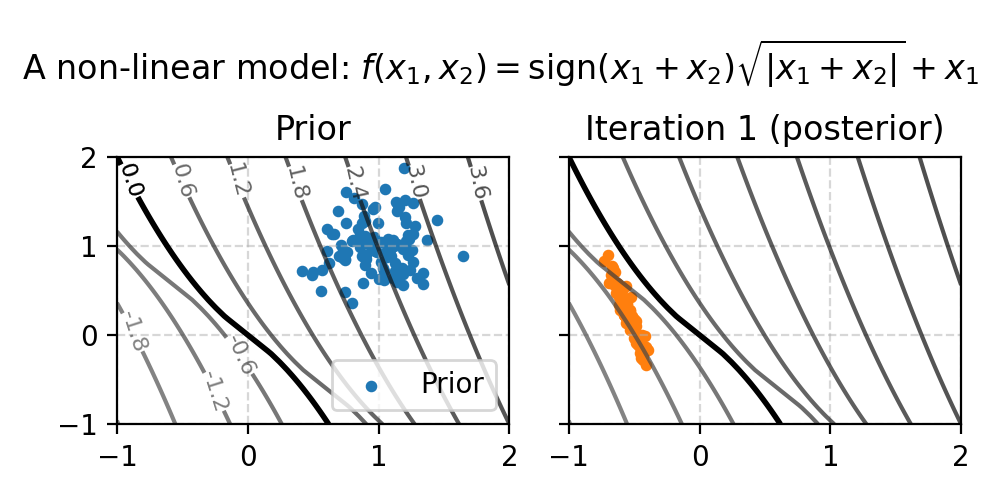
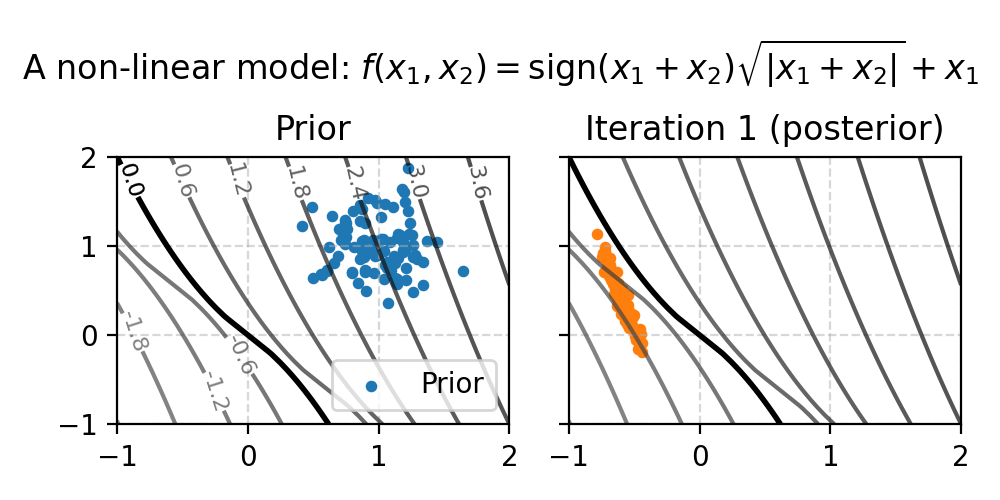
checkpoint

Changed region(s): [[0.279, 0.33, 0.465, 0.63], [0.589, 0.45, 0.651, 0.6], [0.62, 0.63, 0.651, 0.75]]

diff --git a/docs/assumptions_limitations.py b/docs/assumptions_limitations.py
@@ -2,9 +2,9 @@ import numpy as np
 import scipy as sp
 from iterative_ensemble_smoother import ESMDA
 import matplotlib.pyplot as plt
-prop_cycle = plt.rcParams['axes.prop_cycle']
-COLORS = prop_cycle.by_key()['color']
 
+prop_cycle = plt.rcParams["axes.prop_cycle"]
+COLORS = prop_cycle.by_key()["color"]
 
 
 rng = np.random.default_rng(42)
@@ -16,28 +16,28 @@ for experiment in range(5):
     B = rng.uniform(size=n)
     E_AB = np.mean(A * B)
     print(f"  E[A * B] = {E_AB:.3f}")
-    
-    
+
+
 plt.figure(figsize=(5, 3.0))
 plt.title(r"Error decreases like $1/\sqrt{n}$")
 for samples in range(1, 51):
     obs = np.mean(np.prod(rng.uniform(size=(2, samples, 10)), axis=0), axis=0)
     x = samples + rng.uniform(-0.5, 0.25, size=len(obs))
     plt.scatter(x, obs, color="black", s=5, alpha=0.8)
-    
-    
-x = np.linspace(1, 51, num=2**10)
-sigma = np.sqrt(7 / 144) # Var[A*B] = E[A] * E[B] - E[A*B]
 
-plt.plot(x, 0.25 + sigma/ np.sqrt(x), color=COLORS[0], lw=2, alpha=0.8)
-plt.plot(x, 0.25 - sigma/ np.sqrt(x), color=COLORS[0], lw=2, alpha=0.8)
+
+x = np.linspace(1, 51, num=2**10)
+sigma = np.sqrt(7 / 144)  # Var[A*B] = E[A] * E[B] - E[A*B]
+
+plt.plot(x, 0.25 + sigma / np.sqrt(x), color=COLORS[0], lw=2, alpha=0.8)
+plt.plot(x, 0.25 - sigma / np.sqrt(x), color=COLORS[0], lw=2, alpha=0.8)
 
 plt.xlabel("Number of samples $n$")
 plt.ylabel("E[AB] : Expected value\nof product of uniforms")
 plt.grid(True, ls="--", alpha=0.4)
 plt.tight_layout()
 plt.savefig("sample_estimation_sqrt.png", dpi=200)
-    
+
 plt.show()
 
 
@@ -95,7 +95,6 @@ fig.tight_layout()
 plt.savefig("identical_marginals.png", dpi=200)
 plt.show()
 
-1/0
 # =================================================
 
 
@@ -210,7 +209,7 @@ def plot_esmda(forward_model, iterations=2, seed=42, title=None, covar_scale=0.0
         fig.suptitle(title, y=0.925)
 
     # Set up ESMDA
-    realizations = 100
+    realizations = 99
     X = 1 + 0.3 * rng.normal(size=(2, realizations))
     observations = np.zeros(1)
     covariance = np.diag([1]) * covar_scale
@@ -221,9 +220,9 @@ def plot_esmda(forward_model, iterations=2, seed=42, title=None, covar_scale=0.0
     # Generate text labels dynamically
     texts = ["Prior"] + [f"Iteration {i + 1}" for i in range(iterations)]
     texts[-1] += " (posterior)"
-    
+
     # Blue for first, orange for last
-    colors = COLORS[:1] + COLORS[2:] 
+    colors = COLORS[:1] + COLORS[2:]
     colors[iterations] = COLORS[1]
 
     for i in range(esmda.num_assimilations() + 1):
@@ -261,26 +260,45 @@ def plot_esmda(forward_model, iterations=2, seed=42, title=None, covar_scale=0.0
 def forward_model(x):
     return np.abs(np.sum(x, keepdims=True)) ** 2 + x[0] * 5
 
-fig, axes = plot_esmda(forward_model, iterations=2, seed=42, 
-                       title="A non-linear model: $f(x_1, x_2) = (x_1 + x_2)^2 + 5 x_1$")
+
+fig, axes = plot_esmda(
+    forward_model,
+    iterations=2,
+    seed=42,
+    title="A non-linear model: $f(x_1, x_2) = (x_1 + x_2)^2 + 5 x_1$",
+)
 plt.show()
 
-fig, axes = plot_esmda(forward_model, iterations=1, seed=42, 
-                       title="A non-linear model: $f(x_1, x_2) = (x_1 + x_2)^2 + 5 x_1$")
+fig, axes = plot_esmda(
+    forward_model,
+    iterations=1,
+    seed=42,
+    title="A non-linear model: $f(x_1, x_2) = (x_1 + x_2)^2 + 5 x_1$",
+)
 plt.savefig("non_linear_model_overshoot.png", dpi=200)
 plt.show()
 
+
 def forward_model(x):
     summed = np.sum(x, keepdims=True)
-    
+
     return np.abs(summed) ** 0.5 * np.sign(np.sum(x)) + x[0]
 
-fig, axes = plot_esmda(forward_model, iterations=2, seed=42, 
-                       title=r"A non-linear model: $f(x_1, x_2) = \operatorname{sign}(x_1 + x_2)\sqrt{| x_1 + x_2 |} + x_1$")
+
+fig, axes = plot_esmda(
+    forward_model,
+    iterations=2,
+    seed=42,
+    title=r"A non-linear model: $f(x_1, x_2) = \operatorname{sign}(x_1 + x_2)\sqrt{| x_1 + x_2 |} + x_1$",
+)
 plt.show()
 
-fig, axes = plot_esmda(forward_model, iterations=1, seed=42, 
-                       title=r"A non-linear model: $f(x_1, x_2) = \operatorname{sign}(x_1 + x_2)\sqrt{| x_1 + x_2 |} + x_1$")
+fig, axes = plot_esmda(
+    forward_model,
+    iterations=1,
+    seed=42,
+    title=r"A non-linear model: $f(x_1, x_2) = \operatorname{sign}(x_1 + x_2)\sqrt{| x_1 + x_2 |} + x_1$",
+)
 plt.savefig("non_linear_model_overshoot.png", dpi=200)
 plt.show()
 
@@ -289,10 +307,24 @@ def forward_model(x):
     return np.sum((x - np.array([-0.5, 1])) ** 2, keepdims=True) - 0.001
 
 
+def forward_model(x):
+    return (np.sum(x, keepdims=True) - 0) ** 2
+
+
 fig, axes = plot_esmda(forward_model, iterations=1, seed=42, title="A non-linear model")
 
 fig, axes = plot_esmda(forward_model, iterations=2, seed=42, title="A non-linear model")
-1/0
+
+fig, axes = plot_esmda(
+    forward_model, iterations=5, seed=42, title="A non-linear model", covar_scale=1e-8
+)
+
+for ax in axes:
+    ax.plot([-1, 1], [1, -1], color="black")
+
+
+1 / 0
+
 
 def forward_model(x):
     return np.sum((x - np.array([-0.5, 1])) ** 2, keepdims=True) - 0.1
